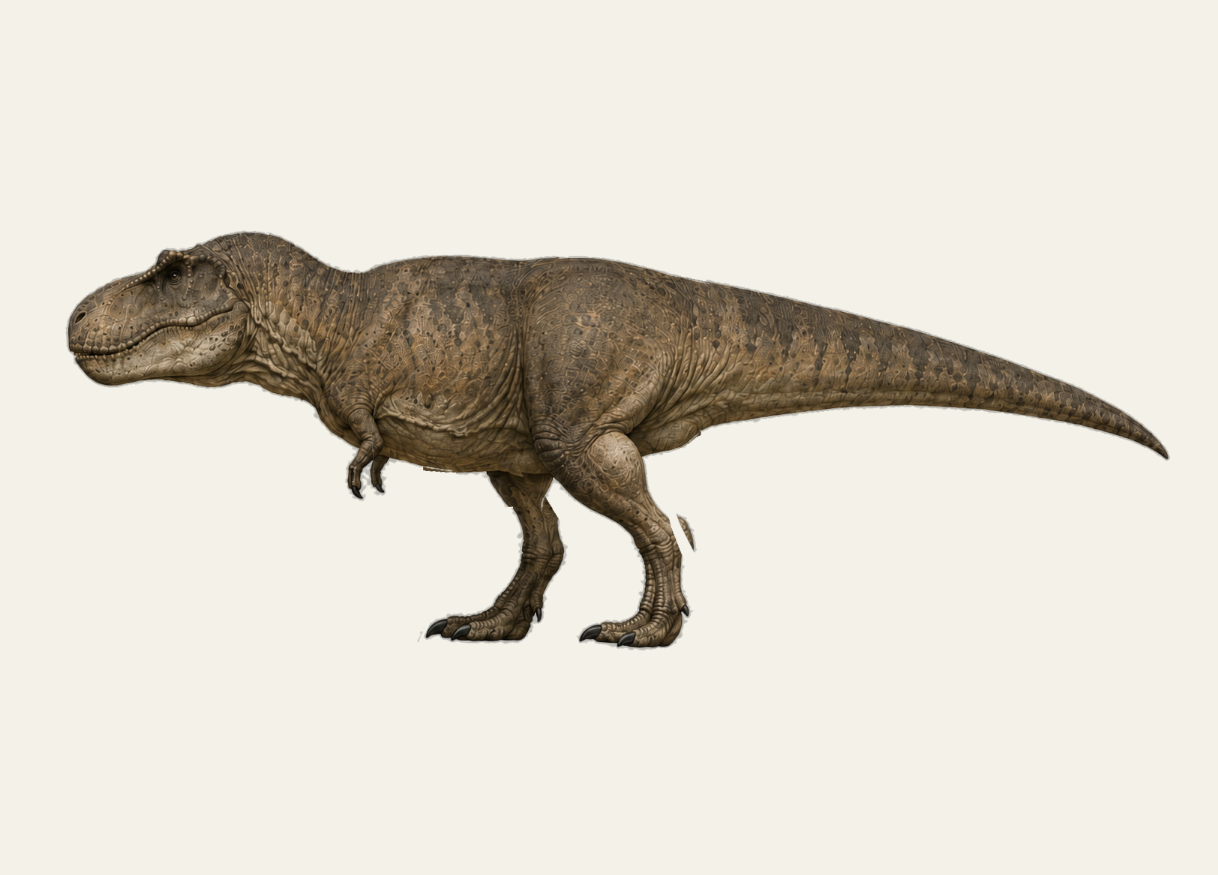
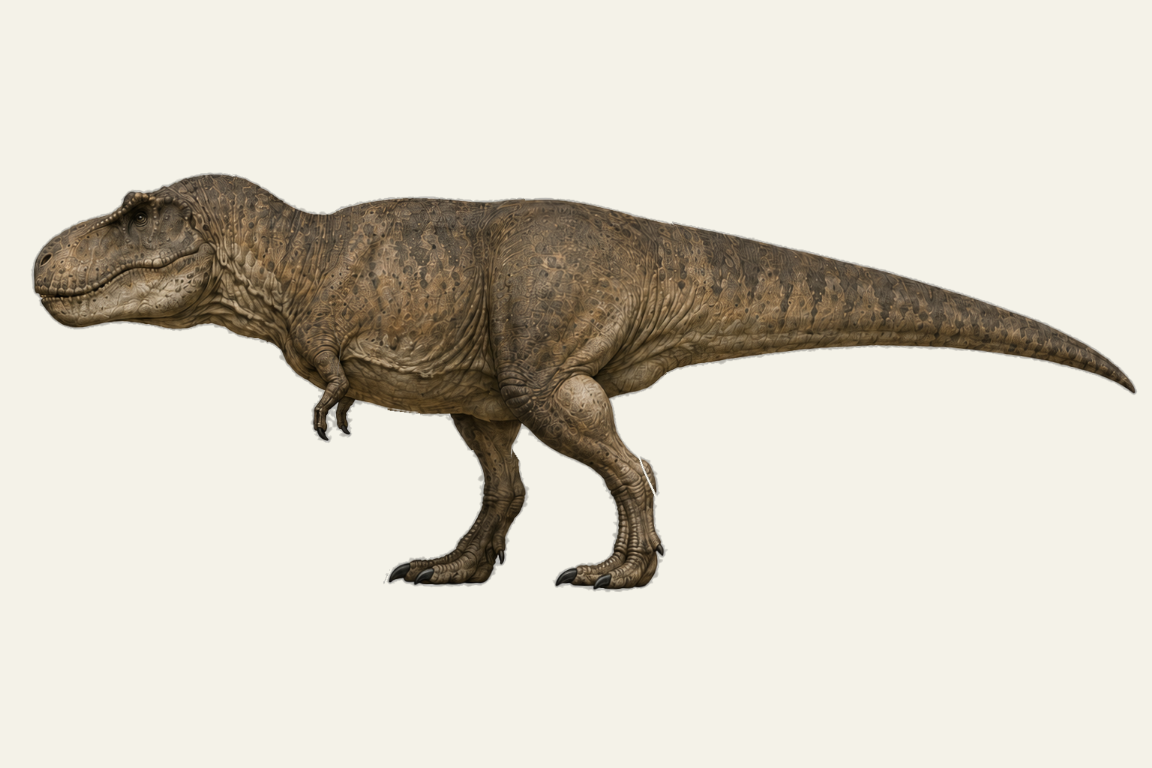
fix: keep stride inside the pack's seam-clean envelope
Owner phone review flagged leg gaps at the stride extremes. Per-layer
attribution (new setLayerVisible debug hook; extract now renders a
fixed stage frame instead of drifting content bounds) traced them to
the pack's straight extraction-cut edges leaving cover at large swings
— a source-art limit, not rig logic. Shipped: leg amplitudes trimmed
~20%, stride capped at ±0.6 (the measured clean envelope), pelvis
lower half pinned so its silhouette never slides off the overlap it
covers, and a weight-faded tail-root follow that closes the remaining
slit behind the forward calf. Presets rescaled into range. The two
next-pack slice requirements are recorded in the review README.

Claude-Session: https://claude.ai/code/session_012eGfpyyHe5rmEkHHjrjcdH

Changed region(s): [[0.0, 0.2188, 1.0, 0.7812]]

diff --git a/packages/illustrated-rig/src/pose.ts b/packages/illustrated-rig/src/pose.ts
@@ -122,20 +122,27 @@ function legMatrices(motion: MotionParams): {
   // Trailing-leg knee flexion only (the max branches). The prototype's small
   // counter-rotation on the leading shank popped the shank's hidden top
   // corner past the thigh silhouette (round-1 finding) — dropped.
+  //
+  // Amplitudes are sized so the FULL slider stays inside the pack's
+  // artifact-free envelope. Beyond roughly these swings, two source-art
+  // limits appear that no transform can fix (owner-reported, verified by
+  // per-layer attribution): the forward-swinging near leg reveals the tail's
+  // static underside spur behind the thigh, and the backward-swinging near
+  // thigh pulls its front edge off the belly contour. Both are recorded as
+  // slice requirements for the next pack revision.
   const s = motion.stride;
-  const farThighRot = s * -5.2;
-  const farShankRot = Math.max(0, s) * 7.5;
-  const nearThighRot = s * 5.8;
-  const nearShankRot = Math.max(0, -s) * 8;
+  const farThighRot = s * -4.2;
+  const farShankRot = Math.max(0, s) * 6;
+  const nearThighRot = s * 4.6;
+  const nearShankRot = Math.max(0, -s) * 6.5;
 
   // The near thigh's exposed contact flips with direction: swinging forward
   // (s>0) pops its trailing edge out of the pelvis/tail silhouette; swinging
-  // back (s<0) drops its front edge out of the belly line. A small counter-
+  // back (s<0) drops its front edge out of the belly line. A counter-
   // translate pins whichever contact is exposed (the opposite edge tucks
   // deeper under cover, which is always safe) — and lets the stepping foot
   // lift a little, which reads naturally.
-  const nearShift =
-    s >= 0 ? translate(0, -6 * s) : translate(4.2 * s, 3.6 * s);
+  const nearShift = s >= 0 ? translate(0, -4.8 * s) : translate(7.2 * s, 2 * s);
 
   const farThigh = rotateAboutDeg(PIVOTS.farHip, farThighRot);
   const nearThigh = compose(nearShift, rotateAboutDeg(PIVOTS.nearHip, nearThighRot));
@@ -196,8 +203,11 @@ function pelvisMesh(motion: MotionParams): number[] {
   for (let i = 0; i < positions.length; i += 2) {
     const x = positions[i]!;
     const y = positions[i + 1]!;
-    // Bend toward the tail side; the torso-boundary vertices stay pinned.
-    const w = ramp(700, 820, x);
+    // Bend toward the tail side; the torso-boundary vertices stay pinned —
+    // and so does the lower half: the pelvis's rear-bottom silhouette is the
+    // cover over the tail-root and shank overlap strips, and any slide there
+    // uncovers them (owner-reported stride fragments).
+    const w = ramp(700, 820, x) * (1 - ramp(560, 660, y));
     const turned = applyMat(rotateAboutDeg(PIVOTS.pelvis, rot * w), { x, y });
     positions[i] = turned.x;
     positions[i + 1] = turned.y + settleDy;
@@ -209,6 +219,10 @@ function tailMesh(motion: MotionParams): number[] {
   const tailRot = motion.tailSway * 5 + motion.stride * 2.4 - motion.breath * 0.7;
   const shiftX = -motion.tailSway * 4;
   const shiftY = motion.tailSway * 2;
+  // The tail-root flesh behind the near thigh follows the forward-swinging
+  // leg a little (weight-faded, like haunch flesh) — otherwise the leg pulls
+  // away from the root's extraction-cut edge and leaves a straight slit.
+  const legFollow = Math.max(0, motion.stride);
   const positions = restMeshPositions('tail');
   for (let i = 0; i < positions.length; i += 2) {
     const x = positions[i]!;
@@ -216,8 +230,9 @@ function tailMesh(motion: MotionParams): number[] {
     // The base (hidden under the pelvis) is pinned; sway grows toward the tip.
     const t = smoothstep01(ramp(870, 1500, x));
     const turned = applyMat(rotateAboutDeg(PIVOTS.tail, tailRot * t), { x, y });
-    positions[i] = turned.x + shiftX * t;
-    positions[i + 1] = turned.y + shiftY * t;
+    const wFollow = (1 - ramp(900, 970, x)) * ramp(545, 610, y);
+    positions[i] = turned.x + shiftX * t - legFollow * 8 * wFollow;
+    positions[i + 1] = turned.y + shiftY * t + legFollow * 4 * wFollow;
   }
   return positions;
 }

diff --git a/apps/web/lib/illustrated-rig/pixiRig.ts b/apps/web/lib/illustrated-rig/pixiRig.ts
@@ -5,6 +5,7 @@ import {
   Matrix,
   Mesh,
   MeshGeometry,
+  Rectangle,
   Sprite,
   Text,
   Texture,
@@ -71,6 +72,8 @@ export interface RigHandle {
   /** Last evaluated motion values — lets the UI freeze exactly where idle was. */
   effectiveMotion(): { headAngle: number; jawAngle: number; breath: number; stride: number; tailSway: number };
   currentTimeMs(): number;
+  /** Debug: toggle one anatomical layer (seam attribution during review). */
+  setLayerVisible(id: string, visible: boolean): void;
   extractPng(): Promise<string>;
   metrics(): RigMetrics;
   destroy(): void;
@@ -357,8 +360,20 @@ export async function createPixiRig(
     currentTimeMs(): number {
       return lastTimeMs;
     },
+    setLayerVisible(id: string, visible: boolean): void {
+      const node = nodes.find((n) => n.id === id);
+      if (node) {
+        node.group.visible = visible;
+        app.render();
+      }
+    },
     async extractPng(): Promise<string> {
-      return app.renderer.extract.base64(app.stage);
+      // Explicit frame: without it, extract crops to the pose's content
+      // bounds and the image origin drifts with the pose.
+      return app.renderer.extract.base64({
+        target: app.stage,
+        frame: new Rectangle(0, 0, CANVAS_W, CANVAS_H),
+      });
     },
     metrics(): RigMetrics {
       const avg =

diff --git a/packages/illustrated-rig/src/params.ts b/packages/illustrated-rig/src/params.ts
@@ -10,7 +10,11 @@ export const MOTION_RANGES = {
   headAngle: { min: -6, max: 8 },
   jawAngle: { min: 0, max: 6 },
   breath: { min: 0, max: 1 },
-  stride: { min: -1, max: 1 },
+  // Stride is capped where the pack stays seam-clean: beyond ~0.6 the legs
+  // expose the straight extraction-cut edges of neighbouring hidden overlap
+  // (tail root behind the near calf, thigh front against the belly) — a
+  // source-art limit recorded for the next pack revision, not a rig bug.
+  stride: { min: -0.6, max: 0.6 },
   tailSway: { min: -1, max: 1 },
 } as const satisfies Record<keyof MotionParams, { min: number; max: number }>;
 
@@ -67,6 +71,6 @@ export const RIG_PRESETS: Record<PresetName, MotionParams> = {
   neutral: { headAngle: 0, jawAngle: 0, breath: 0, stride: 0, tailSway: 0 },
   inhale: { headAngle: 0.5, jawAngle: 0, breath: 1, stride: 0, tailSway: -0.08 },
   lookUp: { headAngle: 6, jawAngle: 0.4, breath: 0.2, stride: 0, tailSway: -0.1 },
-  stride: { headAngle: -1.2, jawAngle: 0, breath: 0.35, stride: 0.92, tailSway: 0.55 },
-  stress: { headAngle: 7.5, jawAngle: 4.5, breath: 1, stride: 1, tailSway: 1 },
+  stride: { headAngle: -1.2, jawAngle: 0, breath: 0.35, stride: 0.55, tailSway: 0.55 },
+  stress: { headAngle: 7.5, jawAngle: 4.5, breath: 1, stride: 0.6, tailSway: 1 },
 };

diff --git a/apps/web/components/rig-lab/IllustratedRigStage.tsx b/apps/web/components/rig-lab/IllustratedRigStage.tsx
@@ -33,6 +33,7 @@ declare global {
       currentTimeMs: () => number;
       extractPng: () => Promise<string>;
       metrics: () => { assetBytes: number; avgFrameMs: number; frameSamples: number };
+      setLayerVisible: (id: string, visible: boolean) => void;
       firstRigMs: number;
     };
   }
@@ -100,6 +101,7 @@ export function IllustratedRigStage({ inputs, seed, onPhase, onHandle, attempt }
           extractPng: () => handleRef.current?.extractPng() ?? Promise.reject(new Error('rig gone')),
           metrics: () =>
             handleRef.current?.metrics() ?? { assetBytes: 0, avgFrameMs: 0, frameSamples: 0 },
+          setLayerVisible: (id, visible) => handleRef.current?.setLayerVisible(id, visible),
           firstRigMs,
         };
         onPhase({ state: 'ready' });

diff --git a/packages/illustrated-rig/tests/pose.test.ts b/packages/illustrated-rig/tests/pose.test.ts
@@ -20,7 +20,7 @@ describe('parameter clamping', () => {
     expect(clamped.headAngle).toBe(MOTION_RANGES.headAngle.max);
     expect(clamped.jawAngle).toBe(MOTION_RANGES.jawAngle.min);
     expect(clamped.breath).toBe(1);
-    expect(clamped.stride).toBe(-1);
+    expect(clamped.stride).toBe(MOTION_RANGES.stride.min);
     expect(clamped.tailSway).toBe(1);
   });
 

diff --git a/apps/web/e2e/rig-lab.spec.ts b/apps/web/e2e/rig-lab.spec.ts
@@ -18,6 +18,7 @@ declare global {
       currentTimeMs: () => number;
       extractPng: () => Promise<string>;
       metrics: () => { assetBytes: number; avgFrameMs: number; frameSamples: number };
+      setLayerVisible: (id: string, visible: boolean) => void;
       firstRigMs: number;
     };
   }

diff --git a/docs/rebuild/rig-lab/README.md b/docs/rebuild/rig-lab/README.md
@@ -13,8 +13,8 @@ screenshots.
 | `01-neutral.png` | Neutral, no pattern | Reassembly matches the approved master |
 | `02-inhale.png` | Breath 1.0 | Torso mesh lift, neck compensation, planted feet, chest/arm unison |
 | `03-look-up.png` | Head +6°, jaw 0.4° | Head↔neck seam under the bend, jaw hinge |
-| `04-stride.png` | Stride +0.92 | Thigh roots, knees, trailing-edge behavior |
-| `05-reverse-stride.png` | Stride −1.0 (slider) | The mirrored contacts (near-thigh front, arm/belly) |
+| `04-stride.png` | Stride +0.55 (preset) | Thigh roots, knees, trailing-edge behavior |
+| `05-reverse-stride.png` | Stride −0.6 (slider bound) | The mirrored contacts (near-thigh front, arm/belly) |
 | `06-stress.png` | Every axis at its bound | The deliberate seam test |
 | `07-pattern-solid.png` | Solid @ 0.75, inhale pose | Luminosity preserved, fixed details not flattened |
 | `08-pattern-mottle.png` | Mottle @ 0.75, inhale pose | Blotches move with anatomy, cross-seam registration |
@@ -55,7 +55,29 @@ thigh silhouette (leading-shank counter-rotation removed), and an arm/belly
 tear at reverse stride (arm stride-swing removed; arms live on breath drift
 alone). A quantitative gap detector (transparent pixels flanked by solid art)
 reads neutral 41 / inhale 40 / stride 43 / stress 50 px — i.e. the posed
-states sit at the rest pose's own crevice baseline. What remains at the full
-stride/stress bounds are small dark nicks at the near-thigh's trailing and
-front contacts, reading as crevice shadow; nothing resembling the round-1
-white tears survives inside the control ranges.
+states sit at the rest pose's own crevice baseline.
+
+## Stride finding (owner phone review, 2026-07-20) and the pack limit
+
+Owner-reported leg gaps at the stride extremes were root-caused by per-layer
+attribution (a `setLayerVisible` debug hook exists for exactly this): the
+pack's hidden-overlap regions are cut with **straight polygon edges** (see
+the overlap map), and at large leg swings two of those cut lines leave their
+cover — the tail-root extension behind the near calf, and the near-thigh
+front against the belly contour. These are source-art limits, not rig bugs;
+no transform can heal an exposed cut edge. Mitigations shipped: leg
+amplitudes trimmed ~20%, the stride control is capped at ±0.6 (the pack's
+seam-clean envelope — documented in `MOTION_RANGES`), and the tail-root
+flesh now follows the forward leg slightly (weight-faded haunch follow),
+which closes the remaining slit to a crease. At −0.6 a ~3 px hairline
+remains at the thigh-front cut line at close zoom.
+
+**Requirements for the next pack revision** (both are slice-construction
+rules, cheap in the ChatGPT extraction workflow):
+
+1. Extend the near-thigh's hidden overlap forward along the belly contour by
+   ≥24 px, with the cut edge following the belly's painted crease (never a
+   straight line through open hide).
+2. Assign the tail-underside spur behind the near thigh to the thigh layer
+   (it moves with the leg), or extend the tail-root overlap so its cut edge
+   stays ≥16 px behind the calf silhouette at 6° of thigh swing.